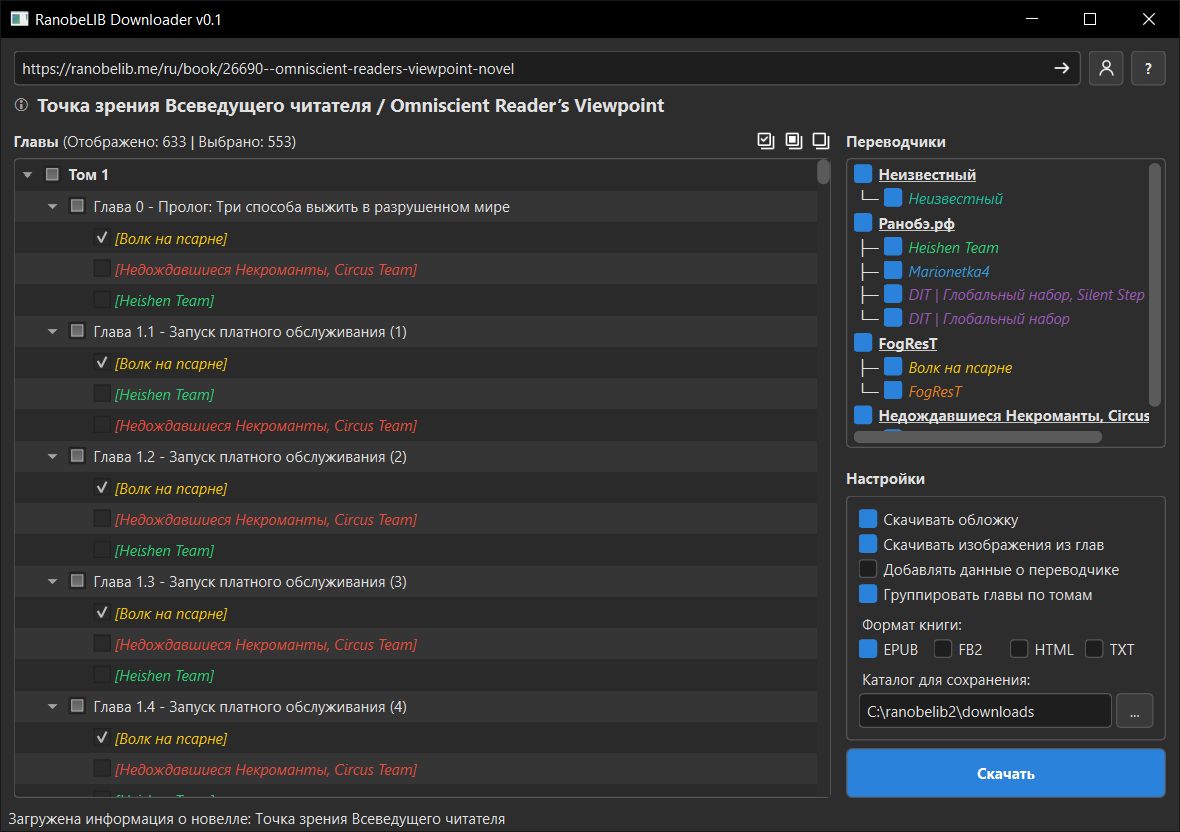
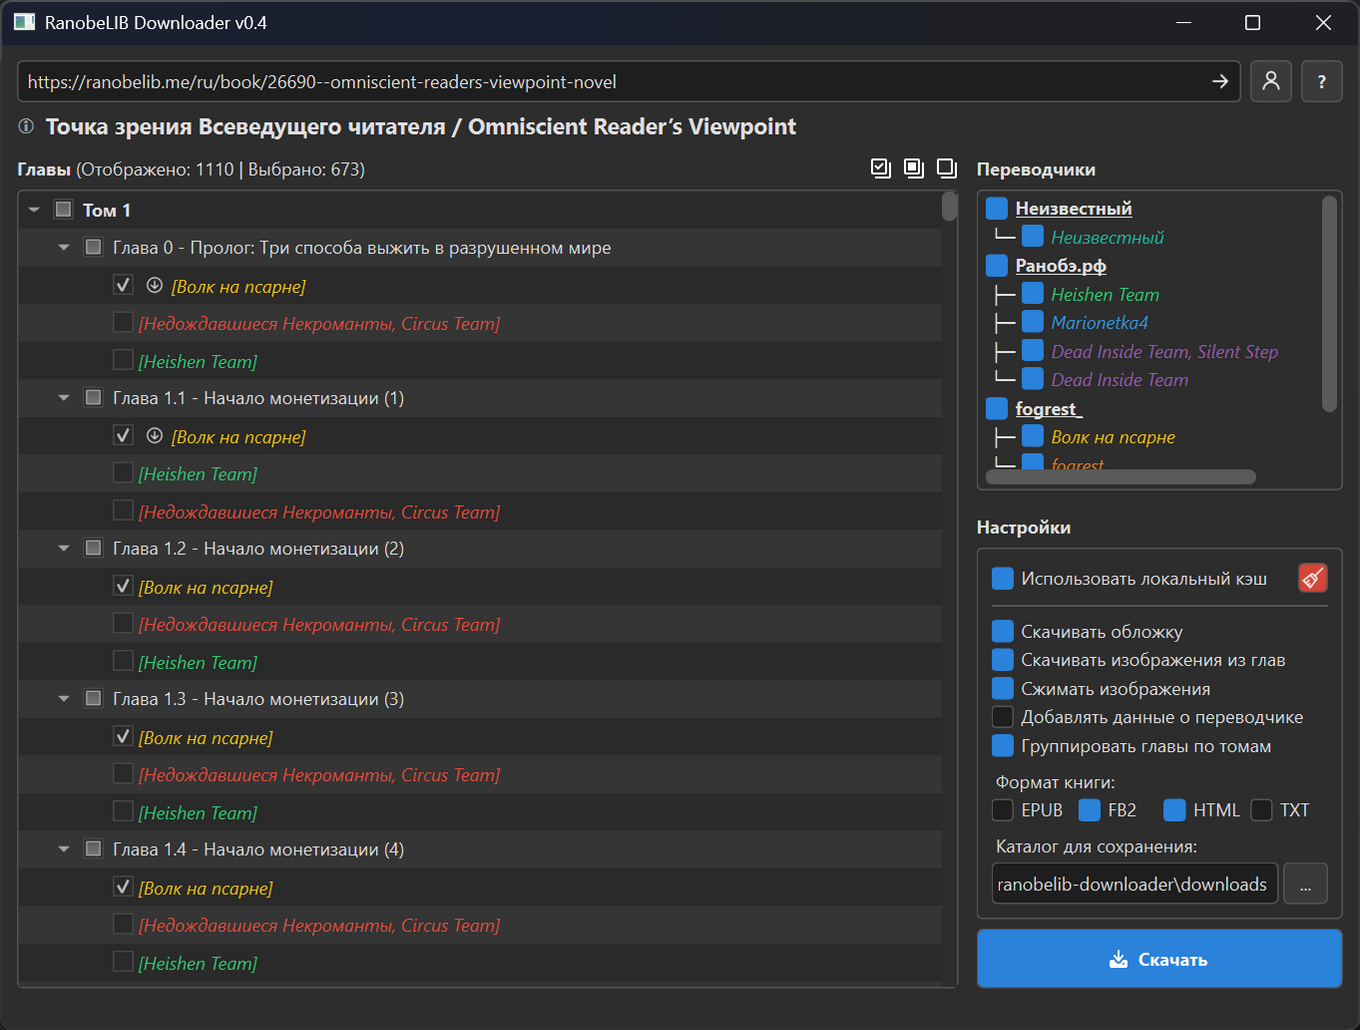
docs: обновить README и скриншоты

diff --git a/README.md b/README.md
@@ -8,16 +8,18 @@
 - 🔐 Вход в аккаунт для доступа к контенту, требующему авторизации
 - 📱 Сохранение в форматы EPUB, FB2, HTML, TXT
 - 🖼️ Загрузка изображений и обложек
+- 🗜️ Сжатие загружаемых изображений
+- 🗄️ Локальное кэширование скачанных глав
 - 🧩 Группировка глав по томам
 - 💻 Два интерфейса: графический (GUI) и консольный (CLI)
 
 ## Скриншоты
 
-### Графический интерфейс
+### GUI
 
 ![GUI интерфейс](screenshots/gui.png)
 
-### Консольный интерфейс
+### CLI
 
 ![CLI интерфейс](screenshots/cli.png)
 
@@ -29,12 +31,14 @@
 ## Установка
 
 1. Клонировать репозиторий:
+
    ```bash
    git clone https://github.com/zeroma25/ranobelib-downloader.git
    cd ranobelib-downloader
    ```
 
 2. Установить зависимости:
+
    ```bash
    pip install -r requirements.txt
    ```
@@ -71,10 +75,13 @@ python cli.py
 
 ## Настройки
 
+- **Использовать локальный кэш**: включает/отключает сохранение загруженных глав в локальный кэш
 - **Скачивать обложку**: включает/отключает загрузку обложки новеллы
 - **Скачивать изображения**: включает/отключает загрузку изображений из глав
+- **Сжимать изображения**: включает/отключает сжатие загружаемых изображений для экономии места
 - **Добавлять данные о переводчике**: добавляет информацию о команде переводчиков в главы
 - **Группировать по томам**: объединяет главы в тома в структуре книги
+- **Каталог для сохранения**: позволяет указать папку для сохранения готовых книг
 
 ## Структура проекта
 
@@ -83,9 +90,12 @@ python cli.py
 - `src/` - исходный код программы
   - `api.py` - работа с API
   - `auth.py` - авторизация на сайте
+  - `branches.py` - работа с ветками перевода
+  - `cache.py` - кэширование глав и данных
   - `creators/` - создание различных форматов книг
   - `gui/` - компоненты графического интерфейса
   - `img.py` - обработка изображений
+  - `main.py` - основная логика программы
   - `parser.py` - парсинг контента
   - `processing.py` - обработка данных
   - `settings.py` - управление настройками